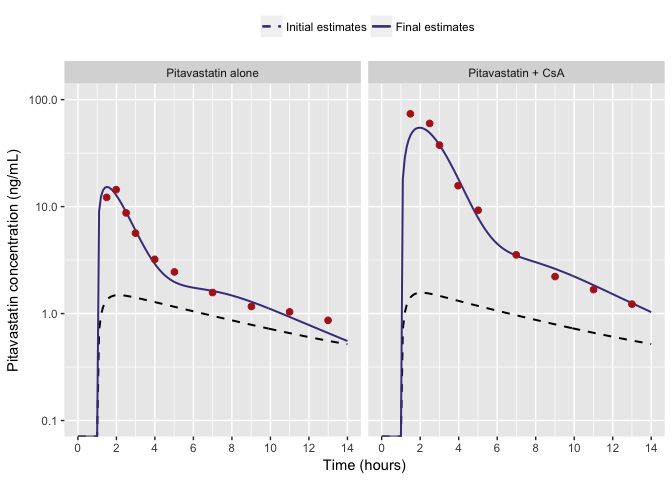
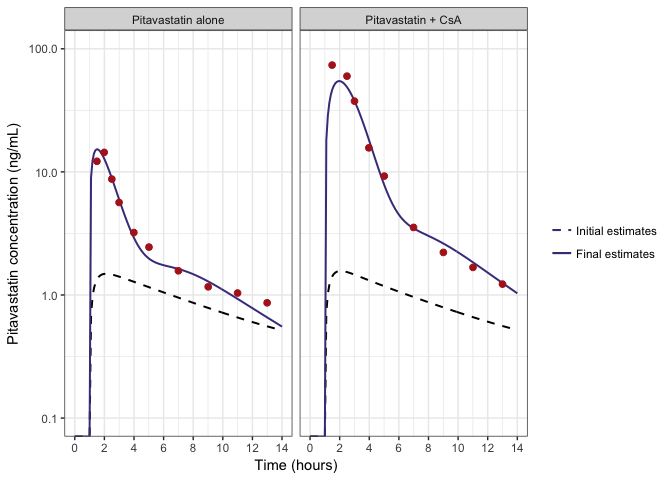
re=build optimization

diff --git a/docs/oatp_ddi_optimization.md b/docs/oatp_ddi_optimization.md
@@ -5,18 +5,15 @@ Metrum Research Group, LLC
 -   [Packages and setup](#packages-and-setup)
 -   [Reference](#reference)
 -   [Data](#data)
--   [The model](#the-model)
+-   [PBPK model: pitavastatin / CsA DDI](#pbpk-model-pitavastatin-csa-ddi)
 -   [Objective function](#objective-function)
     -   [Prediction function](#prediction-function)
 -   [Optimize with different methods](#optimize-with-different-methods)
-    -   [`minqa::newuoa`](#minqanewuoa)
-        -   [Get some predictions to look at how the fit went](#get-some-predictions-to-look-at-how-the-fit-went)
-        -   [Plot](#plot)
-        -   [The final objective function value and estimates](#the-final-objective-function-value-and-estimates)
-    -   [DEoptim](#deoptim)
-        -   [DA for the plot](#da-for-the-plot)
-    -   [Simulated annealing](#simulated-annealing)
-    -   [Particle swarm](#particle-swarm)
+    -   [`minqa::newuoa`: minimization without derivatives](#minqanewuoa-minimization-without-derivatives)
+    -   [`optim`: Nelder-Mead](#optim-nelder-mead)
+    -   [`DEoptim`: differential evolution algorithm](#deoptim-differential-evolution-algorithm)
+    -   [`GenSA`: simulated annealing](#gensa-simulated-annealing)
+    -   [`hydroPSO`: particle swarm optimization](#hydropso-particle-swarm-optimization)
 -   [Compare optimization methods](#compare-optimization-methods)
 
 Packages and setup
@@ -70,7 +67,8 @@ data <- read_csv(data.file) %>%
 ggplot(data=data,aes(time,DV)) + 
   geom_point(col="firebrick") + 
   facet_wrap(~typef) + 
-  scale_y_continuous(trans="log", limits=c(0.1,300), breaks=logbr())
+  scale_y_continuous(trans="log", limits=c(0.1,300), breaks=logbr()) + 
+  theme_bw()
 ```
 
 ![](img/oatp_ddi_optimization-unnamed-chunk-4-1.png)
@@ -104,8 +102,8 @@ yobs
 data <-  dplyr::select(data, -typef)
 ```
 
-The model
-=========
+PBPK model: pitavastatin / CsA DDI
+==================================
 
 -   Check out the model / data with a quick simulation
 -   We're only interested in `CP`, the pitavastatin concentration
@@ -133,8 +131,7 @@ wss <- function(dv, pred, par=NULL) {
 }
 ```
 
-Prediction function
--------------------
+### Prediction function
 
 -   Let's go through step by step what each line is doing for us
 
@@ -162,8 +159,8 @@ pred <- function(p, .data, yobs=NULL, pred=FALSE) {
 Optimize with different methods
 ===============================
 
-`minqa::newuoa`
----------------
+`minqa::newuoa`: minimization without derivatives
+-------------------------------------------------
 
 -   These appear to be the parameters that the authors are fitting
 
@@ -232,7 +229,7 @@ ggplot(data=df_pred) +
   scale_x_continuous(name="Time (hours)", breaks=seq(0,14,2)) +
   scale_linetype_manual(values= c(2,1),
                         labels=c("Initial estimates", "Final estimates"), name="") +
-  theme(legend.position="top")
+  theme(legend.position="top")  + theme_bw()
 ```
 
 ![](img/oatp_ddi_optimization-unnamed-chunk-11-1.png)
@@ -252,8 +249,15 @@ exp(fit1$par)
     . fbCLintall       ikiu      fbile         ka        ktr 
     . 0.81525274 0.01094972 0.34383482 0.98892963 0.68965684
 
-DEoptim
--------
+`optim`: Nelder-Mead
+--------------------
+
+``` r
+fit1b <- optim(theta, pred,.data=data, yobs=yobs)
+```
+
+`DEoptim`: differential evolution algorithm
+-------------------------------------------
 
 "Performs evolutionary global optimization via the Differential Evolution algorithm."
 
@@ -394,10 +398,10 @@ ggplot(data=hxm) +
   facet_wrap(~variable, ncol=2, scales="free_y") 
 ```
 
-![](img/oatp_ddi_optimization-unnamed-chunk-15-1.png)
+![](img/oatp_ddi_optimization-unnamed-chunk-16-1.png)
 
-Simulated annealing
--------------------
+`GenSA`: simulated annealing
+----------------------------
 
 ``` r
 set.seed(11001)
@@ -412,8 +416,8 @@ fit3 <- GenSA(NULL, pred, lower, upper, .data = data, yobs = yobs,
     . It: 1, obj value: 6.283132599
     . It: 42, obj value: 0.6860963951
 
-Particle swarm
---------------
+`hydroPSO`: particle swarm optimization
+---------------------------------------
 
 ``` r
 set.seed(2202201)
@@ -427,12 +431,12 @@ Compare optimization methods
 ============================
 
 ``` r
-results <- list(theta, fit1$par,  fit2$optim$bestmem, fit3$par, fit4$par)
+results <- list(theta, fit1$par, fit1b$par, fit2$optim$bestmem, fit3$par, fit4$par)
 
 results <- map(results, exp)
 
 data_frame(
-  method = c("initial", "newuoa", "RcppDE", "SA", "PSO"),
+  method = c("initial", "newuoa", "nelder", "RcppDE", "SA", "PSO"),
   fbCLintall = map_dbl(results, "fbCLintall"), 
   ikiu = map_dbl(results, "ikiu"), 
   fbile = map_dbl(results, "fbile"), 
@@ -445,6 +449,7 @@ data_frame(
 |:--------|-----------:|--------:|-------:|-------:|-------:|
 | initial |      1.2000|  1.20000|  0.9000|  0.1000|  0.1000|
 | newuoa  |      0.8153|  0.01095|  0.3438|  0.9889|  0.6897|
+| nelder  |      0.8387|  0.01056|  0.3572|  0.9904|  0.7114|
 | RcppDE  |      0.8162|  0.01094|  0.3450|  0.9923|  0.6910|
 | SA      |      0.8142|  0.01097|  0.3434|  0.9889|  0.6883|
 | PSO     |      0.8150|  0.01095|  0.3436|  0.9883|  0.6897|
